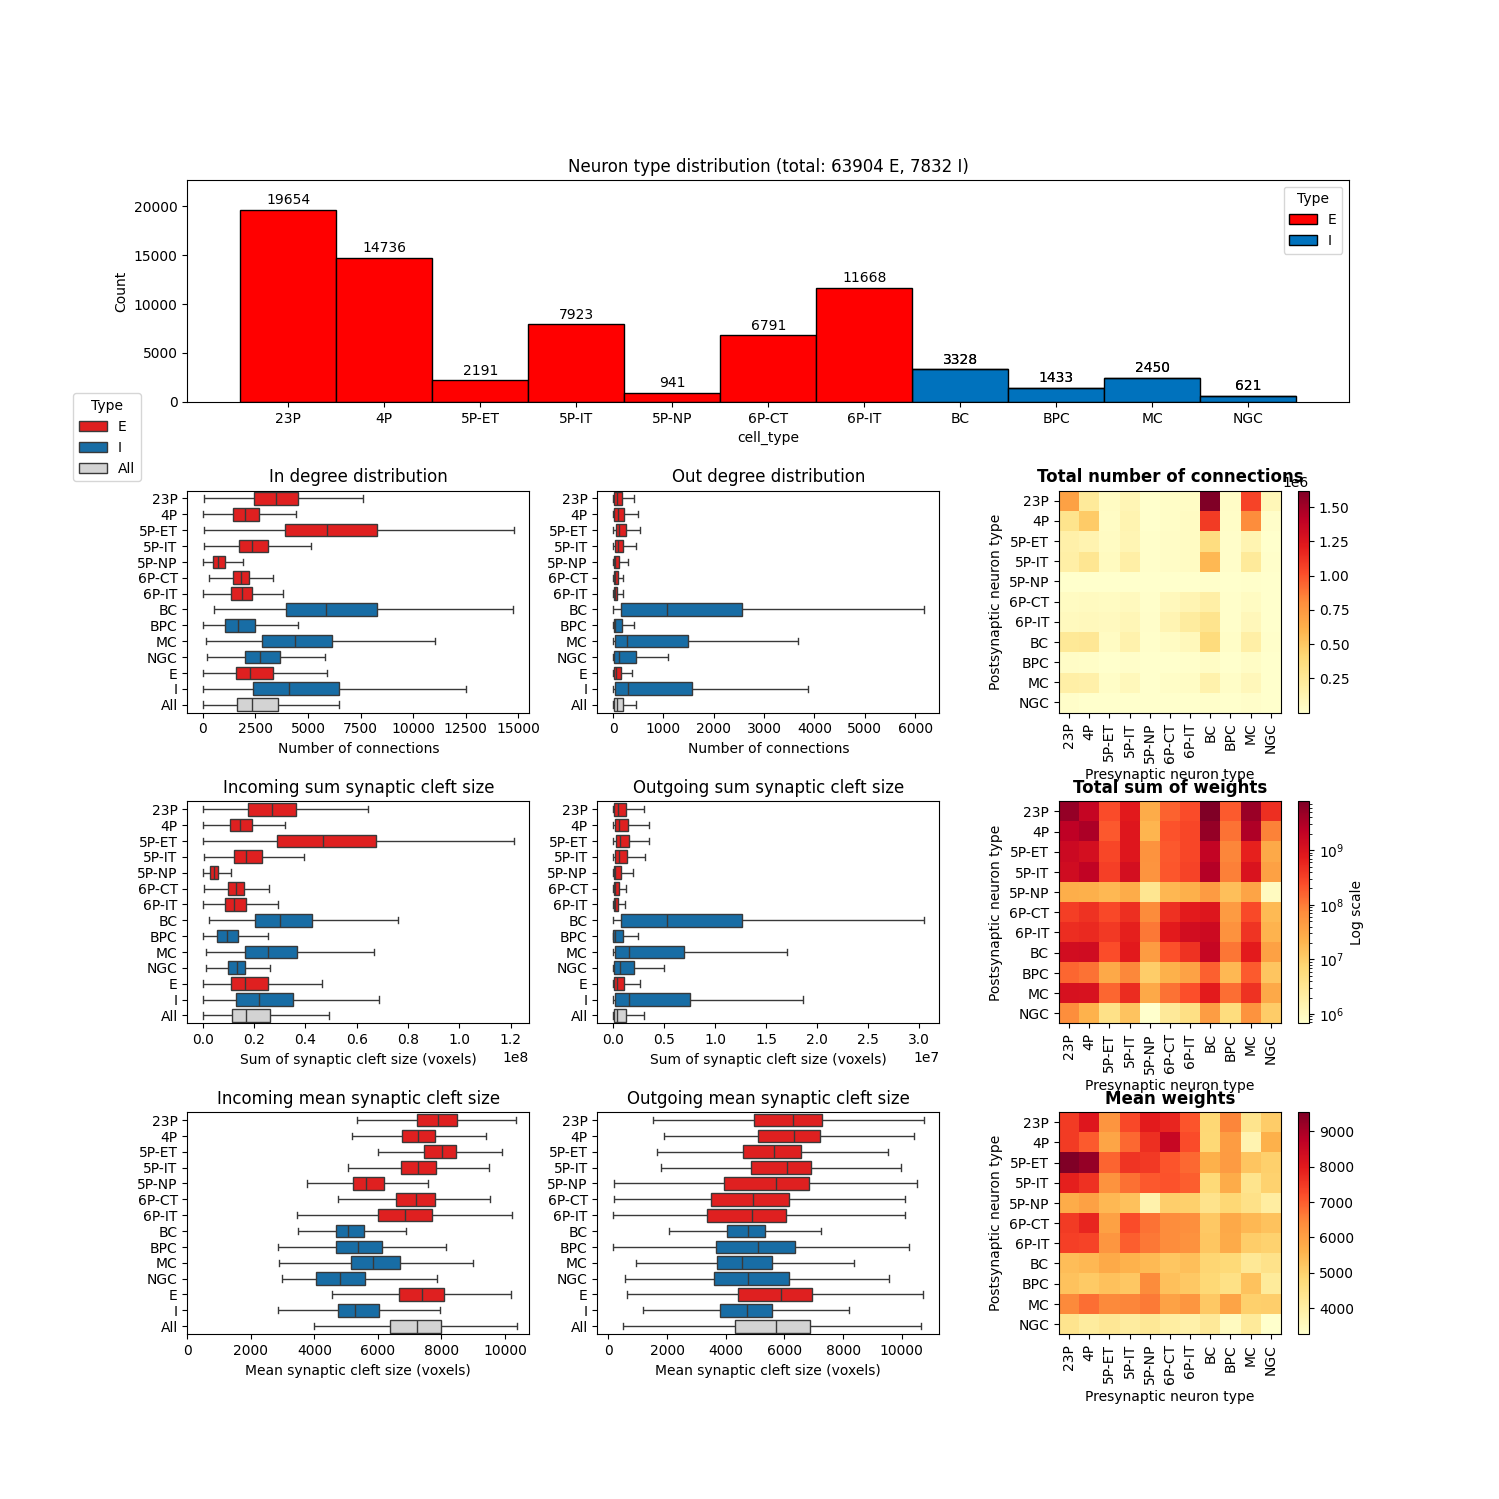
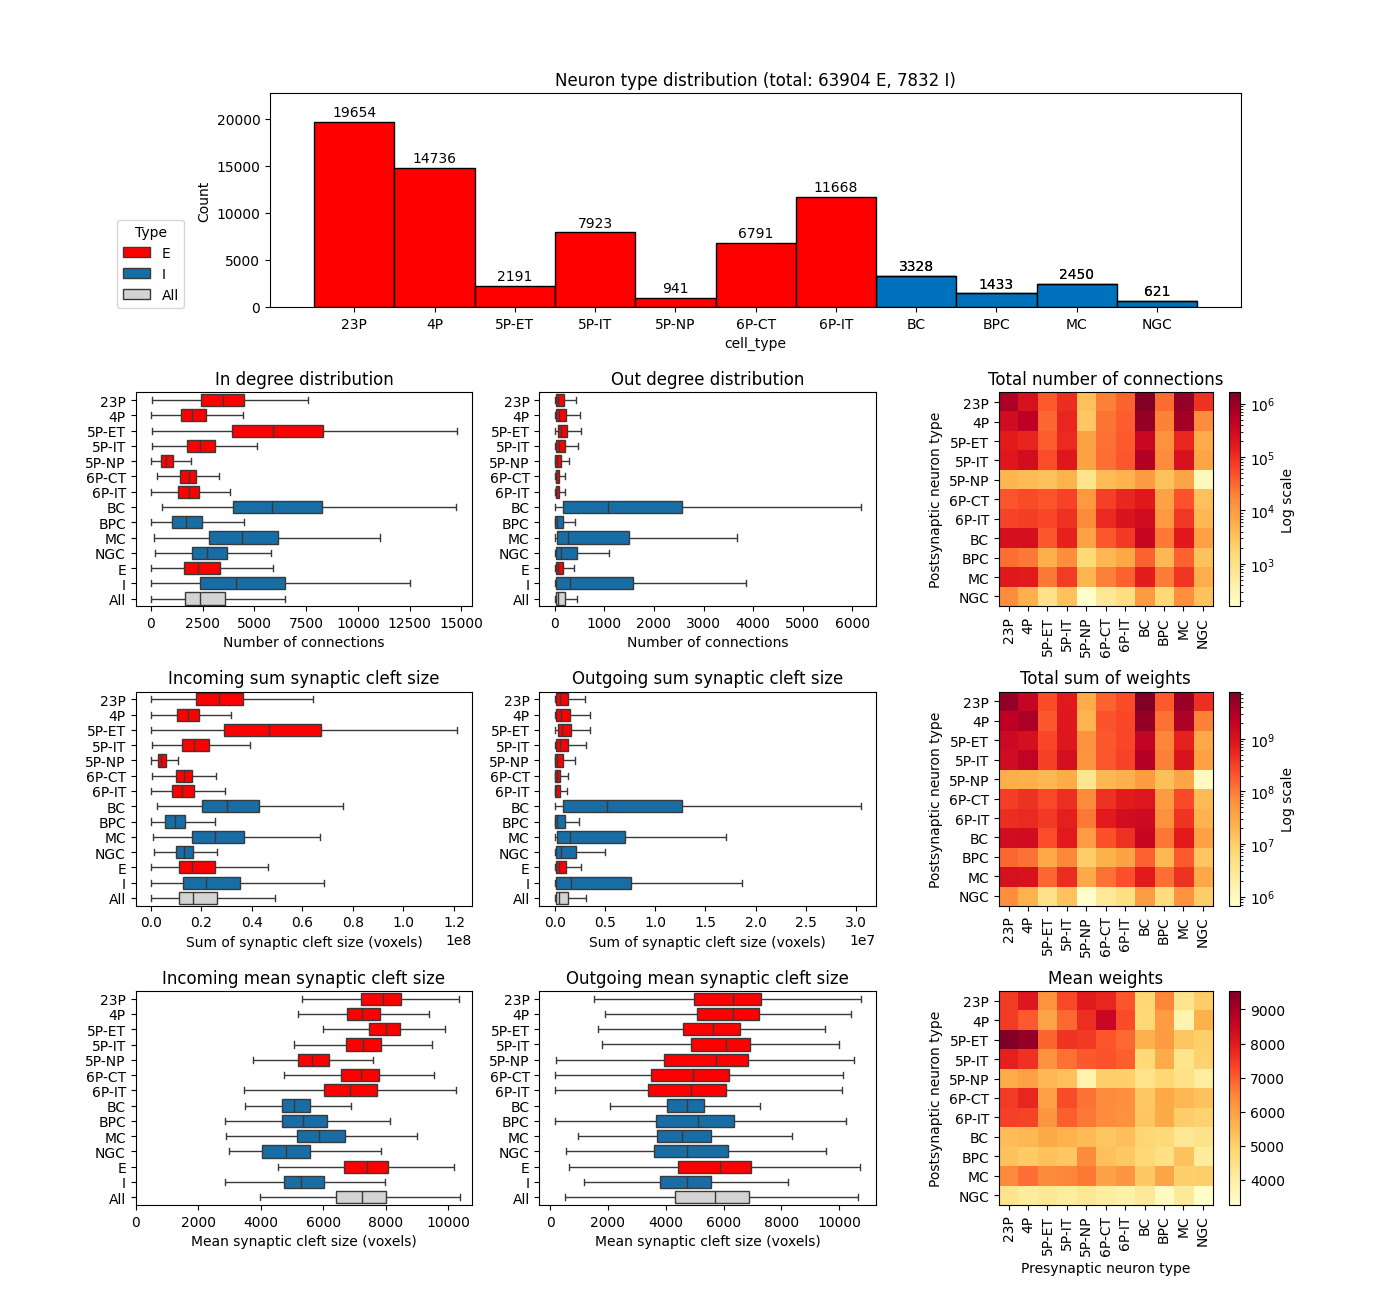
figure 1

diff --git a/figures/figure1.py b/figures/figure1.py
@@ -38,7 +38,7 @@ def plot_cell_type_conn_matrix(z, labels, title, ax, remove=[], log_scale=True, 
         c = ax.imshow(z_filtered, cmap='YlOrRd')
         cbar = plt.colorbar(c, ax=ax)
 
-    ax.set_title(f'{title}', fontweight="bold")
+    ax.set_title(title)
     ax.set_xticks(np.arange(len(labels_filtered)))
     ax.set_xticklabels(labels_filtered, rotation=90)
     ax.set_yticks(np.arange(len(labels_filtered)))
@@ -147,7 +147,7 @@ sns.boxplot(y="type_", x="ds_num_of_post_synapses", hue="clf_type", data=combine
 ax2.set_title("Out degree distribution")
 ax2.set_xlabel("Number of connections")
 
-plot_cell_type_conn_matrix(celltype_mat, cell_types_orig, 'Total number of connections', ax=ax3, log_scale=False)
+plot_cell_type_conn_matrix(celltype_mat, cell_types_orig, 'Total number of connections', ax=ax3, log_scale=True)
 
 ## ROW 2
 sns.boxplot(y="type_", x="ds_pre_syn_sum_weight", hue="clf_type", data=combined_df,
@@ -176,25 +176,96 @@ ax8.set_xlabel("Mean synaptic cleft size (voxels)")
 
 # this is filtered already - use cell_type which is filtered
 plot_cell_type_conn_matrix(celltype_mat_size_avg, cell_types, 'Mean weights', ax=ax9, log_scale=False)
+
 #% start: automatic generated code from pylustrator
 plt.figure(1).ax_dict = {ax.get_label(): ax for ax in plt.figure(1).axes}
 import matplotlib as mpl
 getattr(plt.figure(1), '_pylustrator_init', lambda: ...)()
-plt.figure(1).axes[1].legend(loc=(-0.3336, 1.042), title='Type')
-plt.figure(1).axes[1].yaxis.labelpad = -3.411765
+plt.figure(1).set_size_inches(34.990000/2.54, 33.490000/2.54, forward=True)
+plt.figure(1).ax_dict["<colorbar>"].set_position([0.893071, 0.538939, 0.007941, 0.162330])
+plt.figure(1).ax_dict["<colorbar>"].set_position([0.893071, 0.311676, 0.007941, 0.162330])
+plt.figure(1).ax_dict["<colorbar>"].set_position([0.893071, 0.084414, 0.007941, 0.162330])
+plt.figure(1).axes[0].set(position=[0.2161, 0.7319, 0.6577, 0.1481])
+plt.figure(1).axes[0].set_position([0.196182, 0.766201, 0.705467, 0.162330])
+plt.figure(1).axes[0].get_legend().set(visible=False)
+plt.figure(1).axes[1].legend(loc=(-0.05543, 1.397), title='Type')
+plt.figure(1).axes[1].set_position([0.098518, 0.538939, 0.244478, 0.162330])
+plt.figure(1).axes[1].patches[0].set_facecolor("#ff0000")
+plt.figure(1).axes[1].patches[1].set_facecolor("#ff0000")
+plt.figure(1).axes[1].patches[2].set_facecolor("#ff0000")
+plt.figure(1).axes[1].patches[3].set_facecolor("#ff0000")
+plt.figure(1).axes[1].patches[4].set_facecolor("#ff0000")
+plt.figure(1).axes[1].patches[5].set_facecolor("#ff0000")
+plt.figure(1).axes[1].patches[6].set_facecolor("#ff0000")
+plt.figure(1).axes[1].patches[7].set_facecolor("#ff0000")
+plt.figure(1).axes[1].patches[14].set_facecolor("#ff0000")
 plt.figure(1).axes[1].get_yaxis().get_label().set(text='')
+plt.figure(1).axes[2].set_position([0.391891, 0.538939, 0.244478, 0.162330])
 plt.figure(1).axes[2].get_legend().set(visible=False)
+plt.figure(1).axes[2].patches[0].set_facecolor("#ff0000")
+plt.figure(1).axes[2].patches[1].set_facecolor("#ff0000")
+plt.figure(1).axes[2].patches[2].set_facecolor("#ff0000")
+plt.figure(1).axes[2].patches[3].set_facecolor("#ff0000")
+plt.figure(1).axes[2].patches[4].set_facecolor("#ff0000")
+plt.figure(1).axes[2].patches[5].set_facecolor("#ff0000")
+plt.figure(1).axes[2].patches[6].set_facecolor("#ff0000")
+plt.figure(1).axes[2].patches[7].set_facecolor("#ff0000")
+plt.figure(1).axes[2].patches[14].set_facecolor("#ff0000")
 plt.figure(1).axes[2].get_yaxis().get_label().set(text='')
+plt.figure(1).axes[3].set_position([0.725577, 0.538957, 0.155270, 0.162294])
+plt.figure(1).axes[3].xaxis.labelpad = -3.411765
+plt.figure(1).axes[3].get_xaxis().get_label().set(text='')
+plt.figure(1).axes[4].set_position([0.098518, 0.311676, 0.244478, 0.162330])
 plt.figure(1).axes[4].get_legend().set(visible=False)
+plt.figure(1).axes[4].patches[0].set_facecolor("#ff0000")
+plt.figure(1).axes[4].patches[1].set_facecolor("#ff0000")
+plt.figure(1).axes[4].patches[2].set_facecolor("#ff0000")
+plt.figure(1).axes[4].patches[3].set_facecolor("#ff0000")
+plt.figure(1).axes[4].patches[4].set_facecolor("#ff0000")
+plt.figure(1).axes[4].patches[5].set_facecolor("#ff0000")
+plt.figure(1).axes[4].patches[6].set_facecolor("#ff0000")
+plt.figure(1).axes[4].patches[7].set_facecolor("#ff0000")
+plt.figure(1).axes[4].patches[14].set_facecolor("#ff0000")
 plt.figure(1).axes[4].get_yaxis().get_label().set(text='')
-plt.figure(1).axes[5].legend(loc=(0.7852, 0.5589), title='clf_type')
+plt.figure(1).axes[5].set_position([0.391891, 0.311676, 0.244478, 0.162330])
+plt.figure(1).axes[5].yaxis.labelpad = -4.000000
 plt.figure(1).axes[5].get_legend().set(visible=False)
+plt.figure(1).axes[5].patches[0].set_facecolor("#ff0000")
+plt.figure(1).axes[5].patches[1].set_facecolor("#ff0000")
+plt.figure(1).axes[5].patches[2].set_facecolor("#ff0000")
+plt.figure(1).axes[5].patches[3].set_facecolor("#ff0000")
+plt.figure(1).axes[5].patches[4].set_facecolor("#ff0000")
+plt.figure(1).axes[5].patches[5].set_facecolor("#ff0000")
+plt.figure(1).axes[5].patches[6].set_facecolor("#ff0000")
+plt.figure(1).axes[5].patches[7].set_facecolor("#ff0000")
+plt.figure(1).axes[5].patches[14].set_facecolor("#ff0000")
 plt.figure(1).axes[5].get_yaxis().get_label().set(text='')
-plt.figure(1).axes[7].set(xlim=(0., 10760.), ylabel='')
+plt.figure(1).axes[6].set_position([0.725577, 0.311694, 0.155270, 0.162294])
+plt.figure(1).axes[6].get_xaxis().get_label().set(text='')
+plt.figure(1).axes[7].set(position=[0.09852, 0.08441, 0.2445, 0.1623], xlim=(0., 10760.), ylabel='')
 plt.figure(1).axes[7].get_legend().set(visible=False)
+plt.figure(1).axes[7].patches[0].set_facecolor("#ff0000")
+plt.figure(1).axes[7].patches[1].set_facecolor("#ff0000")
+plt.figure(1).axes[7].patches[2].set_facecolor("#ff0000")
+plt.figure(1).axes[7].patches[3].set_facecolor("#ff0000")
+plt.figure(1).axes[7].patches[4].set_facecolor("#ff0000")
+plt.figure(1).axes[7].patches[5].set_facecolor("#ff0000")
+plt.figure(1).axes[7].patches[6].set_facecolor("#ff0000")
+plt.figure(1).axes[7].patches[7].set_facecolor("#ff0000")
+plt.figure(1).axes[7].patches[14].set_facecolor("#ff0000")
 plt.figure(1).axes[7].get_yaxis().get_label().set(text='')
-plt.figure(1).axes[8].yaxis.labelpad = -4.000000
+plt.figure(1).axes[8].set_position([0.391891, 0.084414, 0.244478, 0.162330])
 plt.figure(1).axes[8].get_legend().set(visible=False)
+plt.figure(1).axes[8].patches[0].set_facecolor("#ff0000")
+plt.figure(1).axes[8].patches[1].set_facecolor("#ff0000")
+plt.figure(1).axes[8].patches[2].set_facecolor("#ff0000")
+plt.figure(1).axes[8].patches[3].set_facecolor("#ff0000")
+plt.figure(1).axes[8].patches[4].set_facecolor("#ff0000")
+plt.figure(1).axes[8].patches[5].set_facecolor("#ff0000")
+plt.figure(1).axes[8].patches[6].set_facecolor("#ff0000")
+plt.figure(1).axes[8].patches[7].set_facecolor("#ff0000")
+plt.figure(1).axes[8].patches[14].set_facecolor("#ff0000")
 plt.figure(1).axes[8].get_yaxis().get_label().set(text='')
+plt.figure(1).axes[9].set_position([0.725577, 0.084432, 0.155270, 0.162294])
 #% end: automatic generated code from pylustrator
 plt.show()
